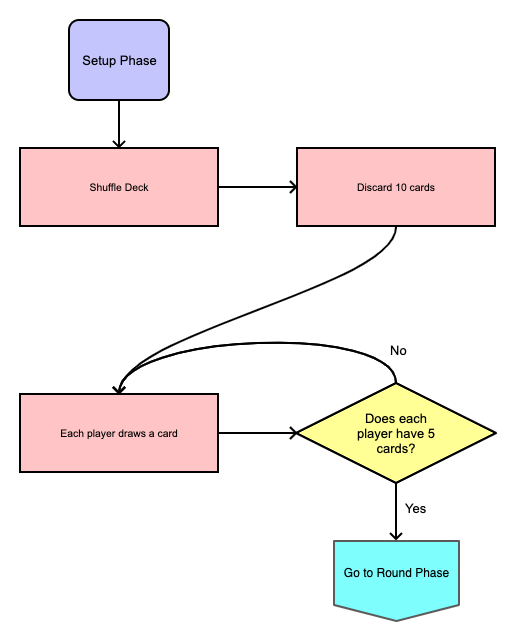
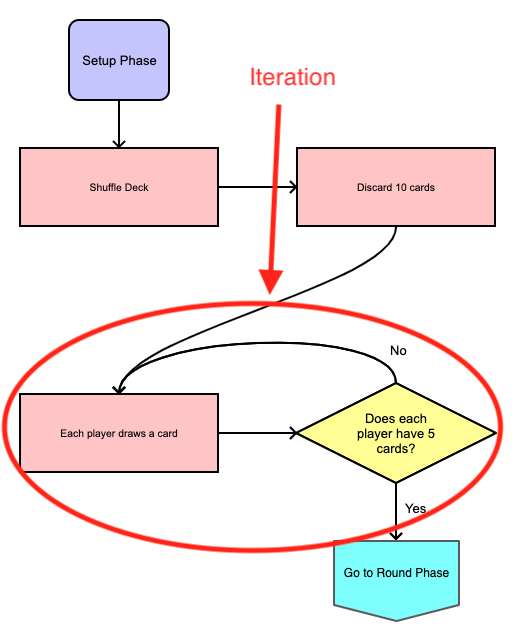
Finished first pass at assignment

diff --git a/README.md b/README.md
@@ -15,11 +15,29 @@ implementation.
 
 ## Sign up for the project
 
-TODO
+Sign up for the project here: [https://classroom.github.com/a/spbOsNka](https://classroom.github.com/a/spbOsNka)
 
 ## Clone your repository
 
-TODO
+After you have signed up for the project, you can clone it using Github Desktop. 
+
+1. Click the Current Repository drop down
+
+![Current Repo](support/current_repo.png)
+
+2. Click `Add` > `Clone Repository`
+
+![Step 2](support/step2.png)
+
+3. Select the `GitHub.com` tab
+
+![Step 3](support/step3.png)
+
+4. Select the `flow-charts-and-board-games-XXXXX` respository and click clone
+
+![Step 4](support/step4.png)
+
+5. Open the project in `Visual Studio Code`
 
 ## Milestone 1
 
@@ -124,7 +142,7 @@ The following is a segment of source code which is used in a 5211 simulator.
 ```
 ![Code Segment 3](support/code_segment_3.png)
 
-### Submitting Milestone 1
+### Milestone 1 Deliverables
 
 To submit Milestone 1, you should create a new folder in your project named
 `5211`. Within the folder, you should include a README.md file containing your
@@ -153,19 +171,102 @@ Due Dates:
 * **E Period** - Monday Sept 13th @ 11:59 PM 
 * **C Period** - Tuesday Sept 14th @ 11:59 PM
 
+For Milestone 2, you will translate the rules for a game of your choosing into a
+flow chart. You will create all of your own Entry Points, Processes, Decision,
+Connectors, and Terminal blocks. Remember, keeping the blocks as simple as
+possible will make it easier to translate into a computer program. If a decision
+block feels as though it requires multiple smaller questions to answer, you
+should break it into those smaller questions. 
+
+For this milestone, you are expected to work individually.
+
 ### Select a Game
+
+First, select a game and ask your instructor to approve it. You can do just
+about any game you want. However, if you choose a game that is complex, your
+flow chart will require more time. You will have at least one class period
+dedicated to this Milestone and are expected to work on it outside of class for
+at least one hour. Try to gauge the complexity to about 2 hours of work.
 
 ### Create a Flow Chart for your game
 
+Now that you have selected a game, create a flow chart for it. Start by
+sketching out the overall structure of the game: identify the major sequences,
+selections, and iterations. Once you have a basic idea of the overall structure
+choose your Entry Points and think about where you will add connectors. Finally,
+fill in your sequences.
+
+For this section of the project you may draw your flow chart or use computer
+software to create it. **Note**: It typically takes longer to make a flow chart
+on a computer. Mx. Collard likes this software:
+[https://pencil.evolus.vn/](https://pencil.evolus.vn/)
+
+### Milestone 2 Deliverables
+
+To submit Milestone 2, you should create a new folder in your project named
+after your game. Within the folder, you should include a README.md file
+containing the name of your game and your flow charts.
+
+The images may be scans, pictures taken with a camera, or digitally created
+images.
+
+When all of your work has been committed and pushed, you will create a tag
+called `milestone-2`. To do this:
+
+1. Open Github Desktop
+2. Open your project repository
+3. Select the `History` Tab
+4. Right click on the commit that will be your submission
+5. Click `Create Tag`
+6. Name the tag `milestone-2`
+7. Click `Push origin`
+8. Verify your tag is available on Github
+
 ## Milestone 3
-Due Dates: **E Period** - Wednesday Sept 15th @ 11:59 PM **C Period** - Friday
-Sept 17th @ 11:59 PM
+Due Dates: 
 
-### Identifying Sequences
+* **E Period** - Wednesday Sept 15th @ 11:59 PM 
+* **C Period** - Friday Sept 17th @ 11:59 PM
 
-### Identifying Selection
+For this milestone, you will deconstruct your flow chart and identify 3
+significant sequences, 3 selections, and 3 iterations.
 
-### Identifying Iteration
+For each sequence, you must explain why the sequence is significant.
+
+For each selection, you must explain the conditions of the selection and the
+result of each condition.
+
+For each iteration, you must explain under what conditions the iteration
+continues, under which conditions the iteration stops, and what is the end
+result of the iteration.
+
+**Note**: To receive a score of Advanced, you should include an image which
+calls attention to the specific sequence, selection, or iteration. For example:
+
+![Example](support/setup.png)
+
+A general rule of thumb is to make the person grading your assignments life
+easier.
+
+### Milestone 3 Deliverables
+
+To submit Milestone 3, you should update your games README.md file to contain
+your explanation for your sequences, selections, and itereations.
+
+The images may be scans, pictures taken with a camera, or digitally created
+images.
+
+When all of your work has been committed and pushed, you will create a tag
+called `milestone-3`. To do this:
+
+1. Open Github Desktop
+2. Open your project repository
+3. Select the `History` Tab
+4. Right click on the commit that will be your submission
+5. Click `Create Tag`
+6. Name the tag `milestone-3`
+7. Click `Push origin`
+8. Verify your tag is available on Github
 
 ## Grading
 
@@ -339,7 +440,8 @@ help you catch any formatting errors you might have.
 ### Headers
 
 In Markdown, headers are denoted using one or more octothorpes (`#`) followed by
-the text you would like for the header. The more octothorpes you use, the smaller the header will be. For example:
+the text you would like for the header. The more octothorpes you use, the
+smaller the header will be. For example:
 
 ```
 # Header 1
@@ -357,7 +459,9 @@ Use headers to create different sections in your Markdown files.
 
 ### Code Boxes
 
-Sometimes you want to be able to provide preformatted code with syntax highlighting. To do this, you surround the code in three backticks: (```) For example:
+Sometimes you want to be able to provide preformatted code with syntax
+highlighting. To do this, you surround the code in three backticks: (```) For
+example:
 
 ![Backticks](support/backticks.png)
 
@@ -379,7 +483,9 @@ Produces the following:
         }
 ```
 
-Notice, there is no syntax highlighting. To ask for syntax highlighting, you can add the language to highlight at the end of the three backticks: (```typescript) For example:
+Notice, there is no syntax highlighting. To ask for syntax highlighting, you can
+add the language to highlight at the end of the three backticks: (```typescript)
+For example:
 
 ![Backticks](support/backticks2.png)
 
@@ -403,12 +509,18 @@ Produces the following:
 
 ### Images
 
-Often times you will need to include images in your Markdown documents. To do this you must first place an image file in your repository. Then, you create a reference to it using the following syntax: `![Image Text](path/to/image)`.
+Often times you will need to include images in your Markdown documents. To do
+this you must first place an image file in your repository. Then, you create a
+reference to it using the following syntax: `![Image Text](path/to/image)`.
 
-For example, there is an image named `connector.png` located in the `support` folder of this project. To reference the image you could write: `![Connector Image](support/connector.png)`
+For example, there is an image named `connector.png` located in the `support`
+folder of this project. To reference the image you could write: `![Connector
+Image](support/connector.png)`
 
 This would produce the following:
 
 ![Connector Image](support/connector.png)
 
-**Note**: The text between the square brackets (`[]`) is what is displayed if the image cannot be found or if the person accessing the document is seeing impaired. 
+**Note**: The text between the square brackets (`[]`) is what is displayed if
+the image cannot be found or if the person accessing the document is seeing
+impaired. 
